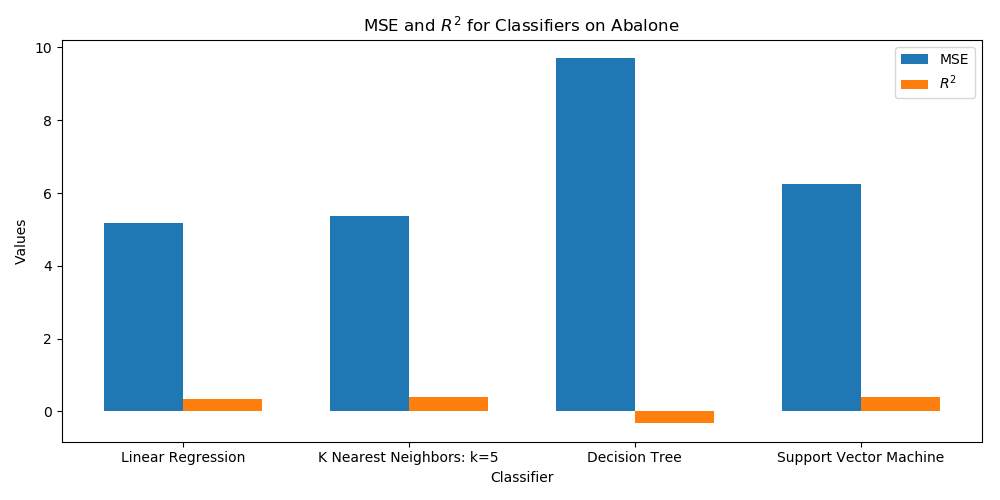
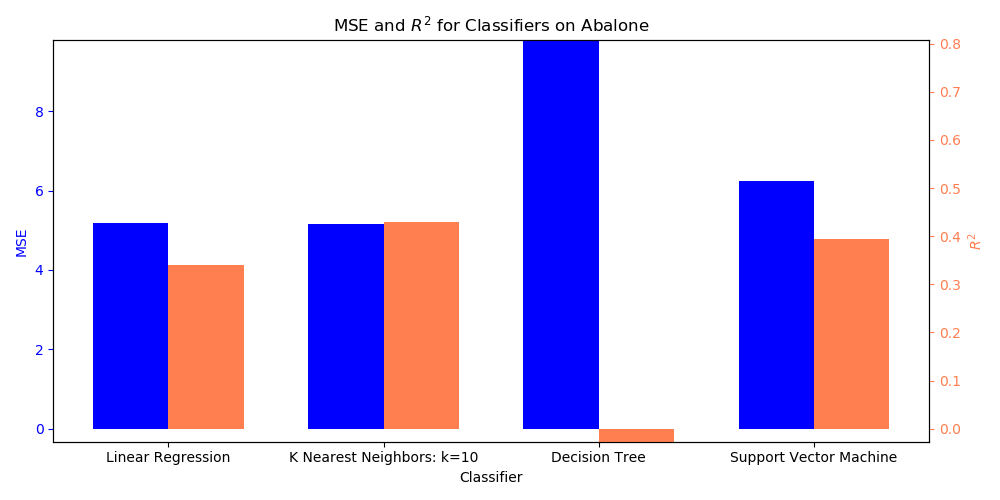
Updated regression figures

diff --git a/src/regression.py b/src/regression.py
@@ -6,9 +6,19 @@ from sklearn.metrics import mean_squared_error, r2_score
 import regressors as reg
 import regression_data as reg_data
 
+# https://stackoverflow.com/a/10482477
+def align_yaxis(ax1, v1, ax2, v2):
+    """adjust ax2 ylimit so that v2 in ax2 is aligned to v1 in ax1"""
+    _, y1 = ax1.transData.transform((0, v1))
+    _, y2 = ax2.transData.transform((0, v2))
+    inv = ax2.transData.inverted()
+    _, dy = inv.transform((0, 0)) - inv.transform((0, y1-y2))
+    miny, maxy = ax2.get_ylim()
+    ax2.set_ylim(miny+dy, maxy+dy)
+
 def main():
     models = [reg.Model_LinearRegression(dict()),
-              reg.Model_KnnRegression({'n':5}),
+              reg.Model_KnnRegression({'n':10}),
               reg.Model_DecisionTree(dict()),
               reg.Model_SupportVectorMachine(dict())]
 
@@ -19,7 +29,13 @@ def main():
         print('==============================')
         print(data.get_name())
         results = []
-        for model in models:
+        
+        
+        f, a = plt.subplots(nrows=2, ncols=2, figsize=(20,20))
+        a = np.array(a).flatten()
+        plt.suptitle(data.get_name(), fontsize=24)
+        
+        for i, model in enumerate(models):
 
             mse, r2 = [], []
 
@@ -31,41 +47,71 @@ def main():
 
                 y_hat = model.predict(x_test)
 
+                poly = np.poly1d(np.polyfit(y_hat, y_test, 1))
+                
+                
+
                 mse.append(mean_squared_error(y_test, y_hat))
                 r2.append(r2_score(y_test, y_hat, multioutput=None))
-
+                a[i].scatter(y_hat, y_test, alpha=0.5, color='b')
+                a[i].plot([y_hat.min(), y_hat.max()], 
+                          poly([y_hat.min(), y_hat.max()]),
+                          color='r',
+                          alpha=0.5)
+                a[i].set_xlabel('Prediction')
+                a[i].set_ylabel('Label')
+                a[i].set_xlim(y_test.min(), y_test.max())
+                a[i].set_ylim(y_test.min(), y_test.max())
+      
+            
             name = model.get_name()
             mse = np.mean(mse)
             r2 = np.mean(r2)
+            a[i].set_title('{}: MSE:{} $R^2$:{}'.format(model.get_name(), mse, r2))
+
 
             results.append((name, {'mse':mse,'r2':r2}))
 
             print('Report for {}'.format(name))
             print('MSE: {}'.format(mse))
             print('R2: {}'.format(r2))
+            
+            
+        f.tight_layout()
+        plt.subplots_adjust(top=0.95)
+        plt.savefig('{}.png'.format(data.get_name()))
         print('==============================')
 
+        mses = list(map(lambda a:a[1]['mse'], results))
+        r2s = list(map(lambda a:a[1]['r2'], results))
         # https://matplotlib.org/gallery/statistics/barchart_demo.html
+        # https://matplotlib.org/examples/api/two_scales.html
         bar_width = 0.35
         idx = np.arange(len(results))
         fig, ax = plt.subplots(figsize=(10,5))
         ax.bar(idx,
-               list(map(lambda a:a[1]['mse'], results)),
+               mses,
                bar_width,
-               label='MSE')
-
-        ax.bar(idx+bar_width,
-               list(map(lambda a:a[1]['r2'], results)),
-               bar_width,
-               label='$R^2$')
-
+               color='b')
+        ax.set_ylabel('MSE', color='b')
+        ax.set_ylim((min(mses + r2s), max(mses+r2s)))
+        ax.tick_params('y', colors='b')
         ax.set_xlabel('Classifier')
-        ax.set_ylabel('Values')
-        ax.set_title('MSE and $R^2$ for Classifiers on {}'.format(data.get_name()))
         ax.set_xticks(idx + bar_width / 2)
         ax.set_xticklabels(list(map(lambda a: a[0], results)))
-        ax.legend()
 
+        ax2 = ax.twinx()
+        ax2.bar(idx+bar_width,
+               r2s,
+               bar_width,
+               color='coral')
+        ax2.set_ylabel('$R^2$', color='coral')
+        ax2.tick_params('y', colors='coral')
+
+
+        ax.set_title('MSE and $R^2$ for Classifiers on {}'.format(data.get_name()))
+
+        align_yaxis(ax, 0, ax2, 0)
         fig.tight_layout()
         plt.savefig('./{}_comparison.png'.format(data.get_name()))
 

diff --git a/src/regression_data.py b/src/regression_data.py
@@ -101,7 +101,7 @@ class ForestFires:
 
         # use the log of area as recommended in the dataset description
         y = data['area'].values[1:].astype(np.float64)
-        #y = np.log10(y, where=y>0)
+        y = np.log10(y, where=y>0)
 
         return (x, y)
 
